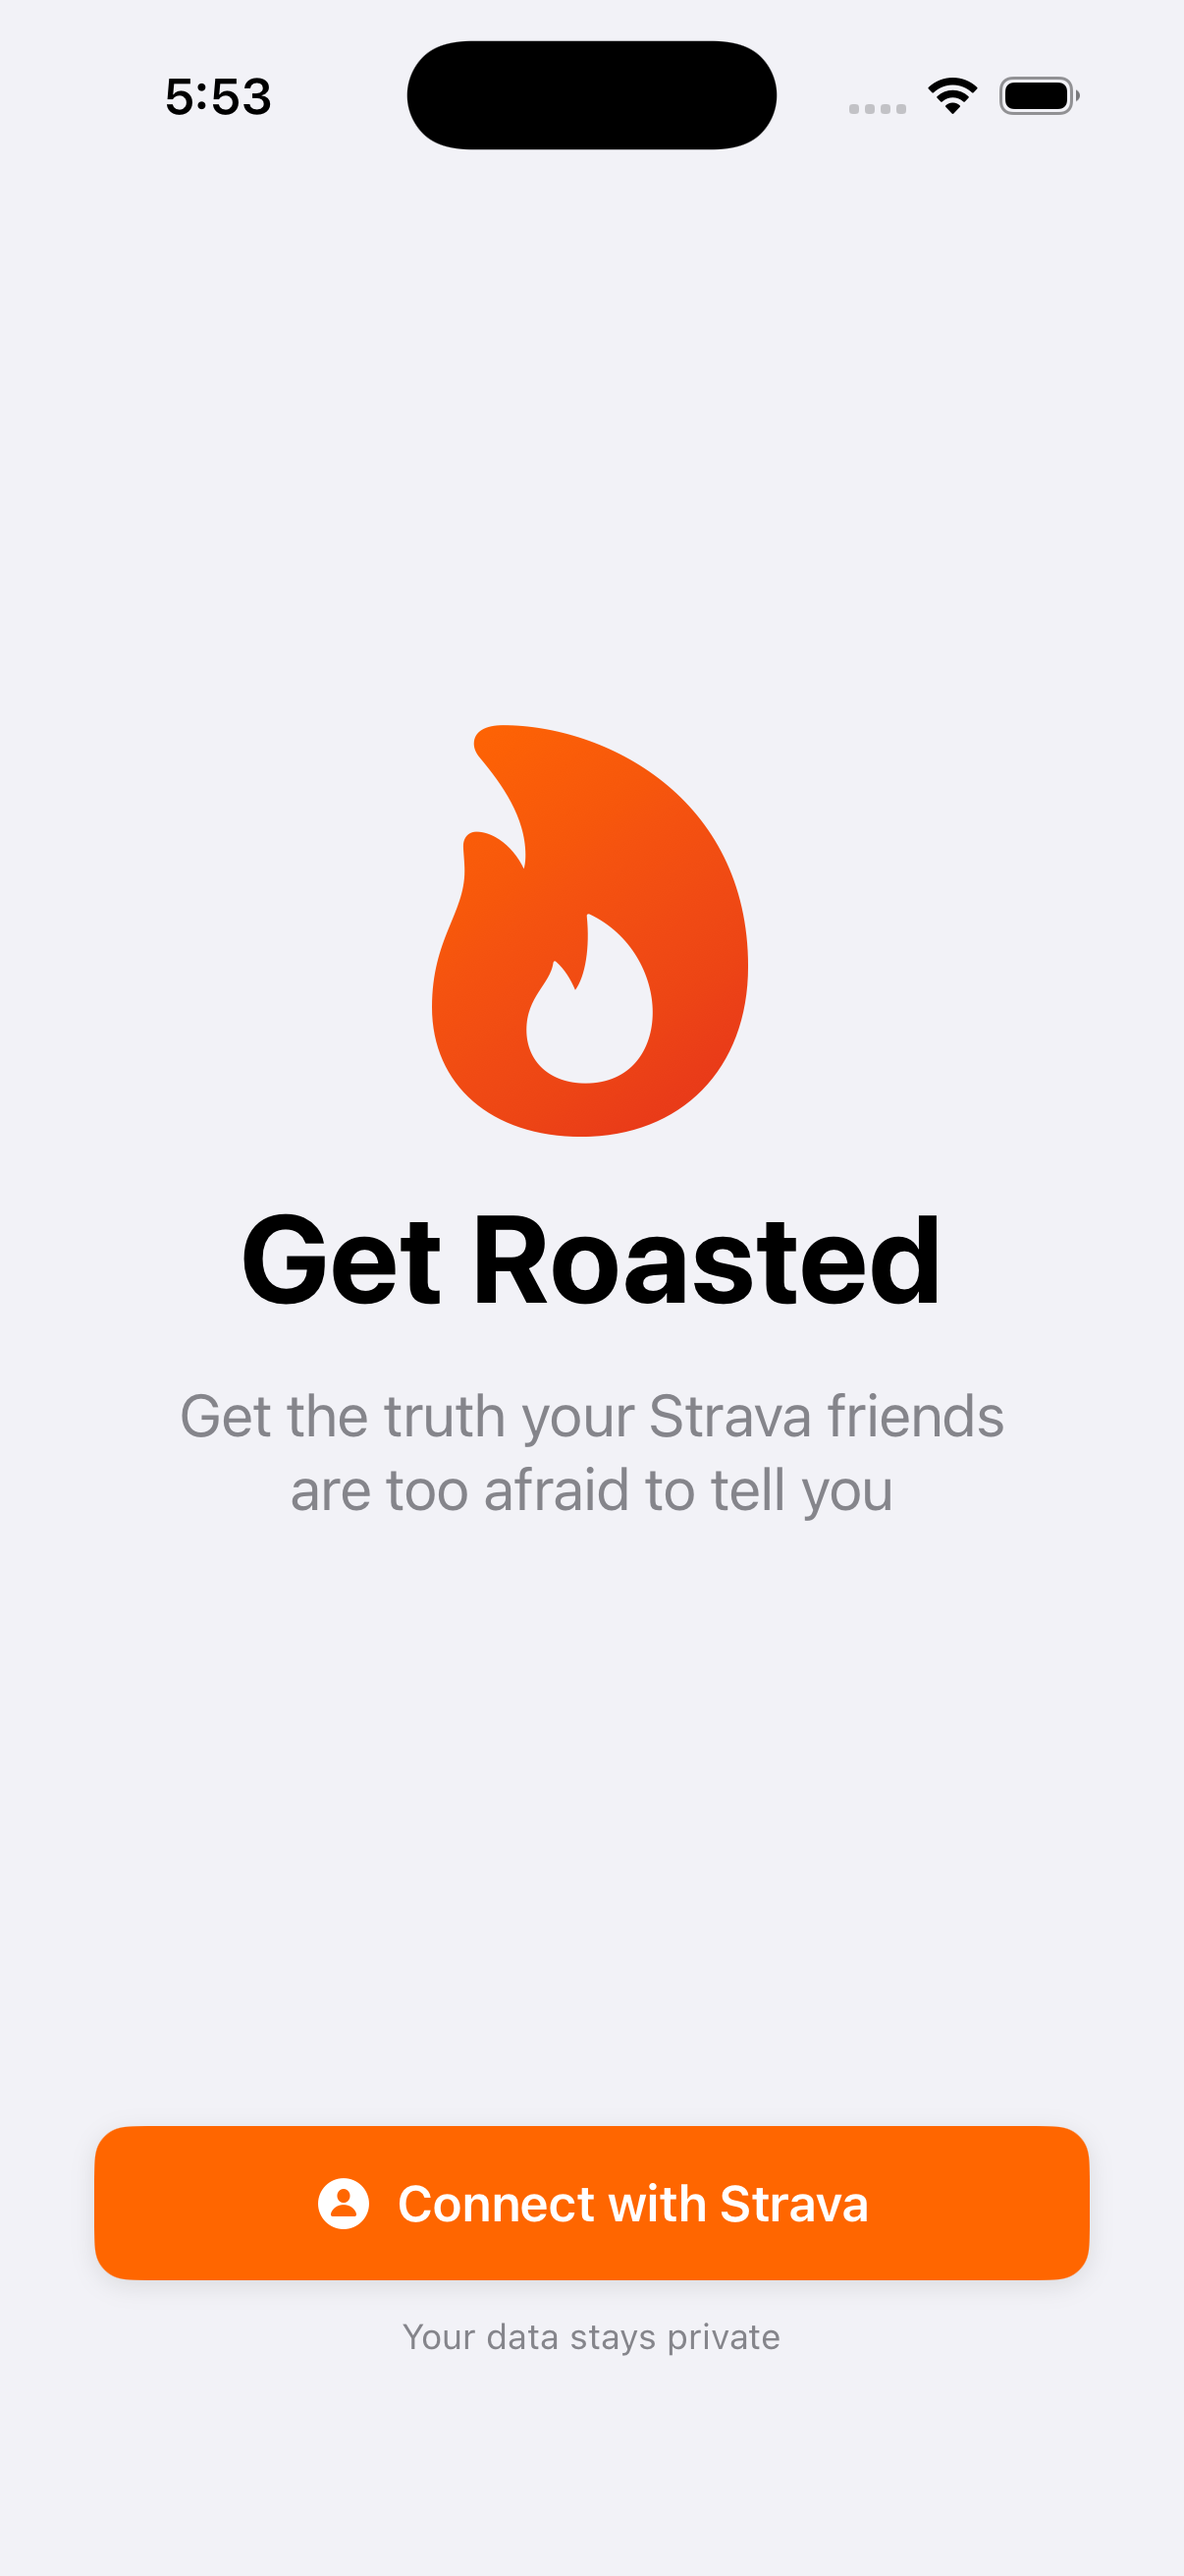
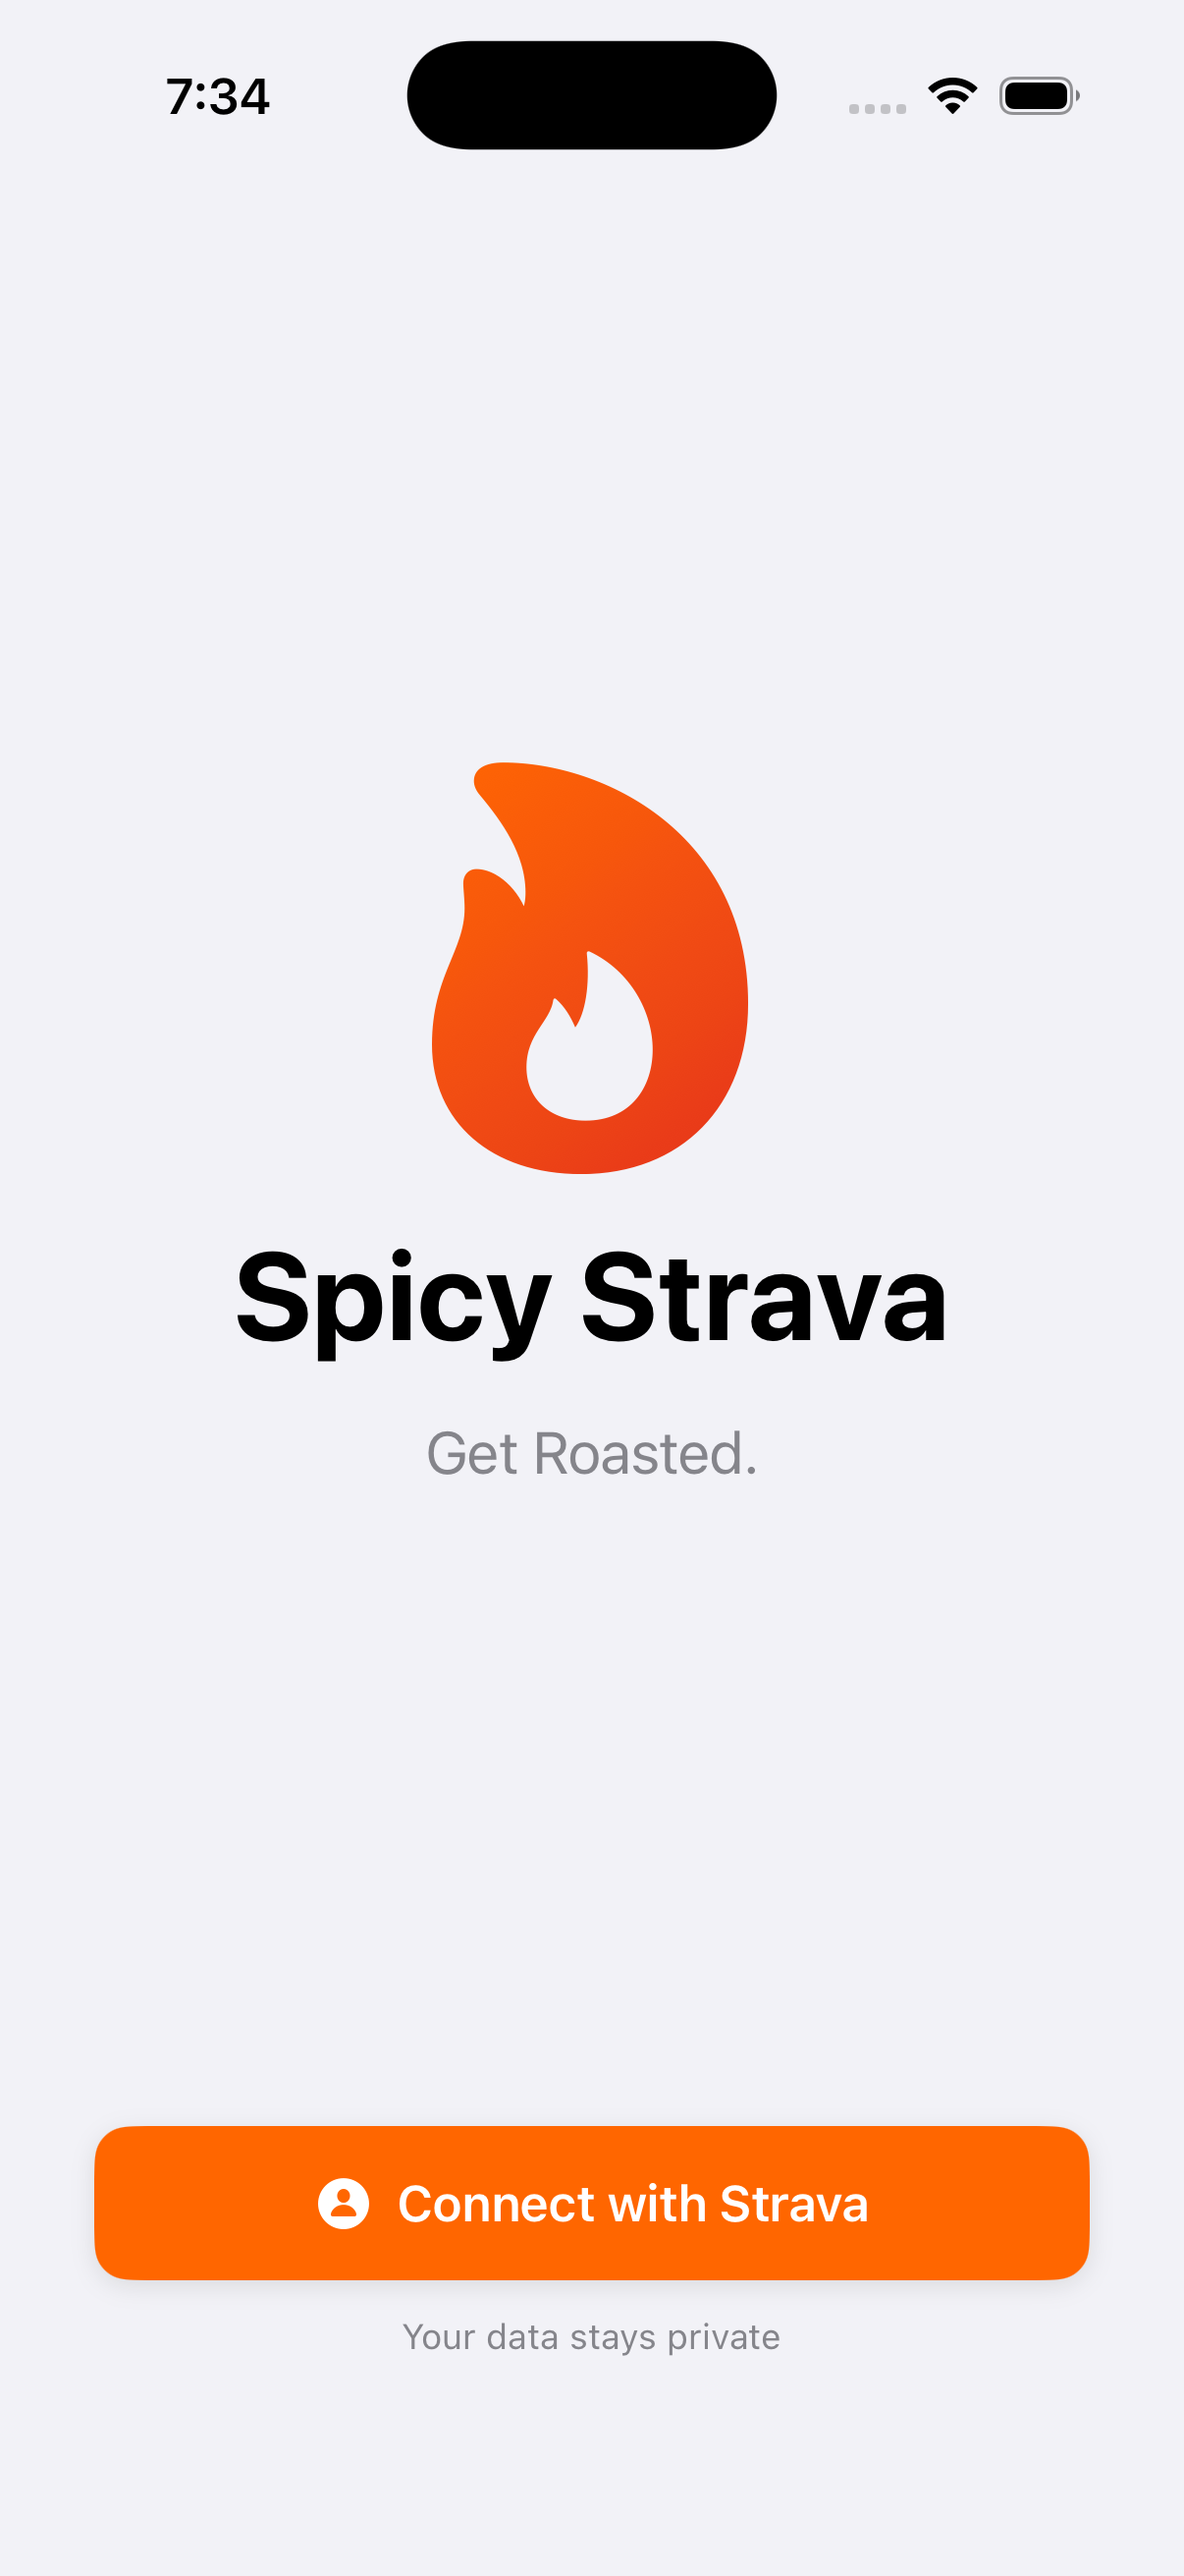
update title

Changed region(s): [[0.1534, 0.278, 0.859, 0.587], [0.1227, 0.0309, 0.2454, 0.0618]]

diff --git a/StravaRoaster/Views/ContentView.swift b/StravaRoaster/Views/ContentView.swift
@@ -25,10 +25,10 @@ struct ContentView: View {
                                 )
                             )
                         
-                        Text("Get Roasted")
+                        Text("Spicy Strava")
                             .font(.system(size: 42, weight: .bold))
                         
-                        Text("Get the truth your Strava friends\nare too afraid to tell you")
+                        Text("Get Roasted.")
                             .font(.title3)
                             .foregroundColor(.secondary)
                             .multilineTextAlignment(.center)
